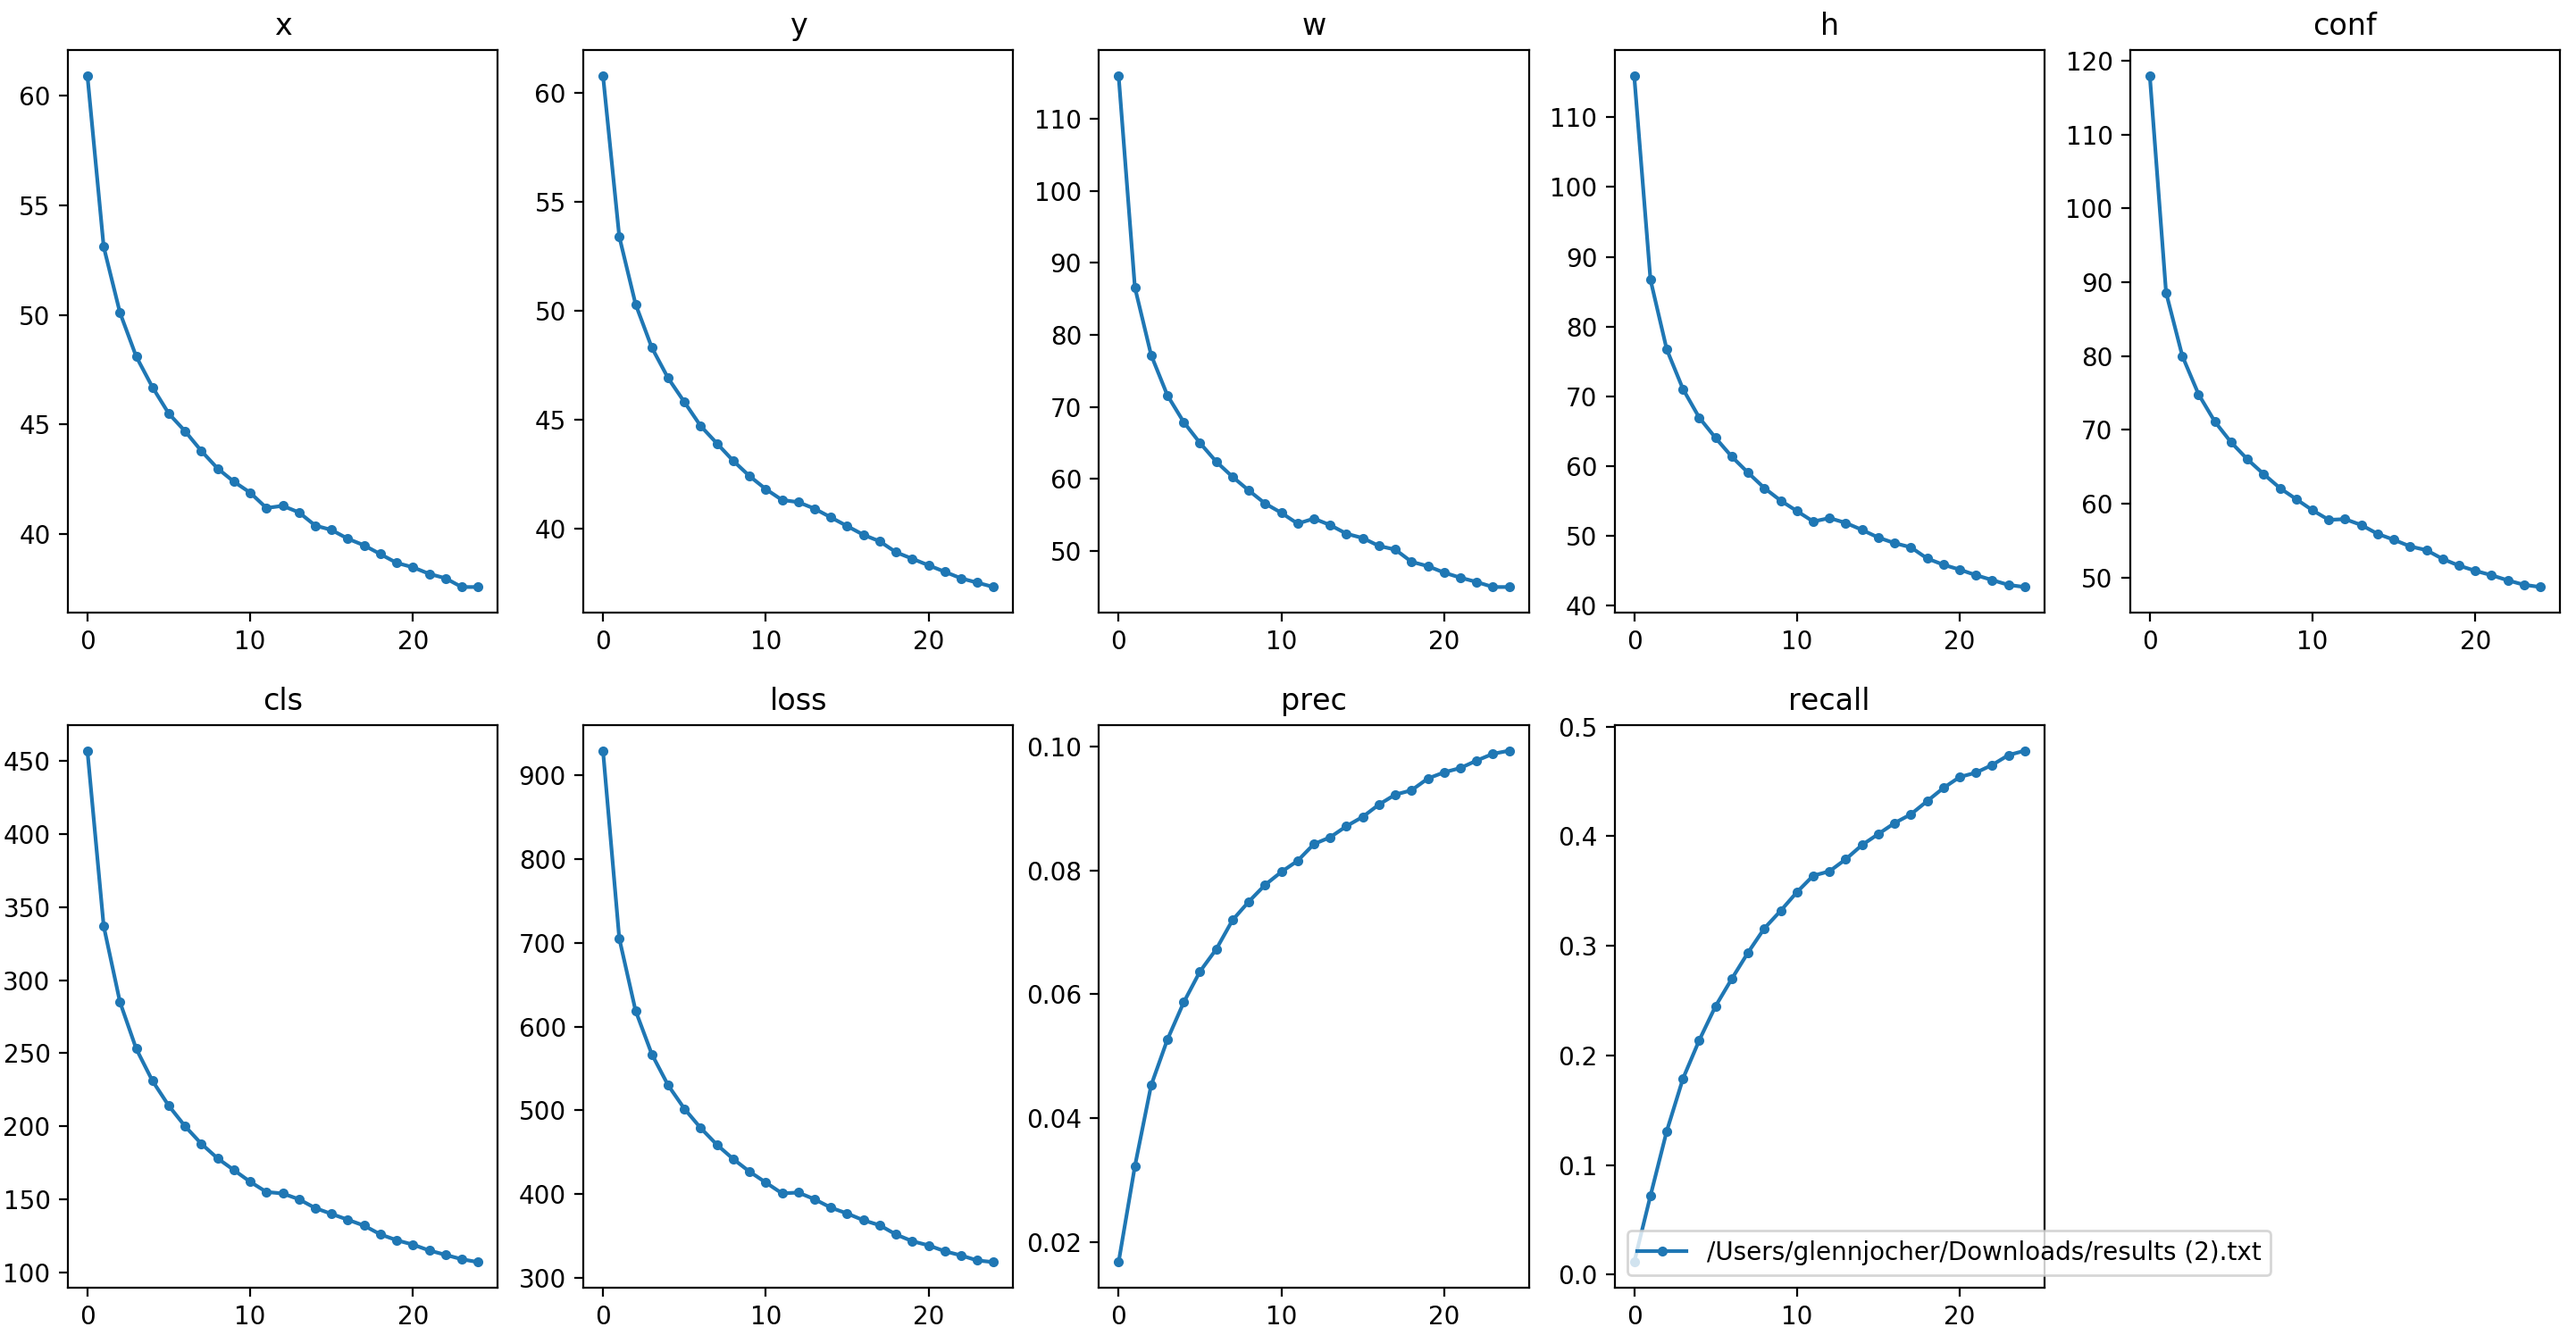
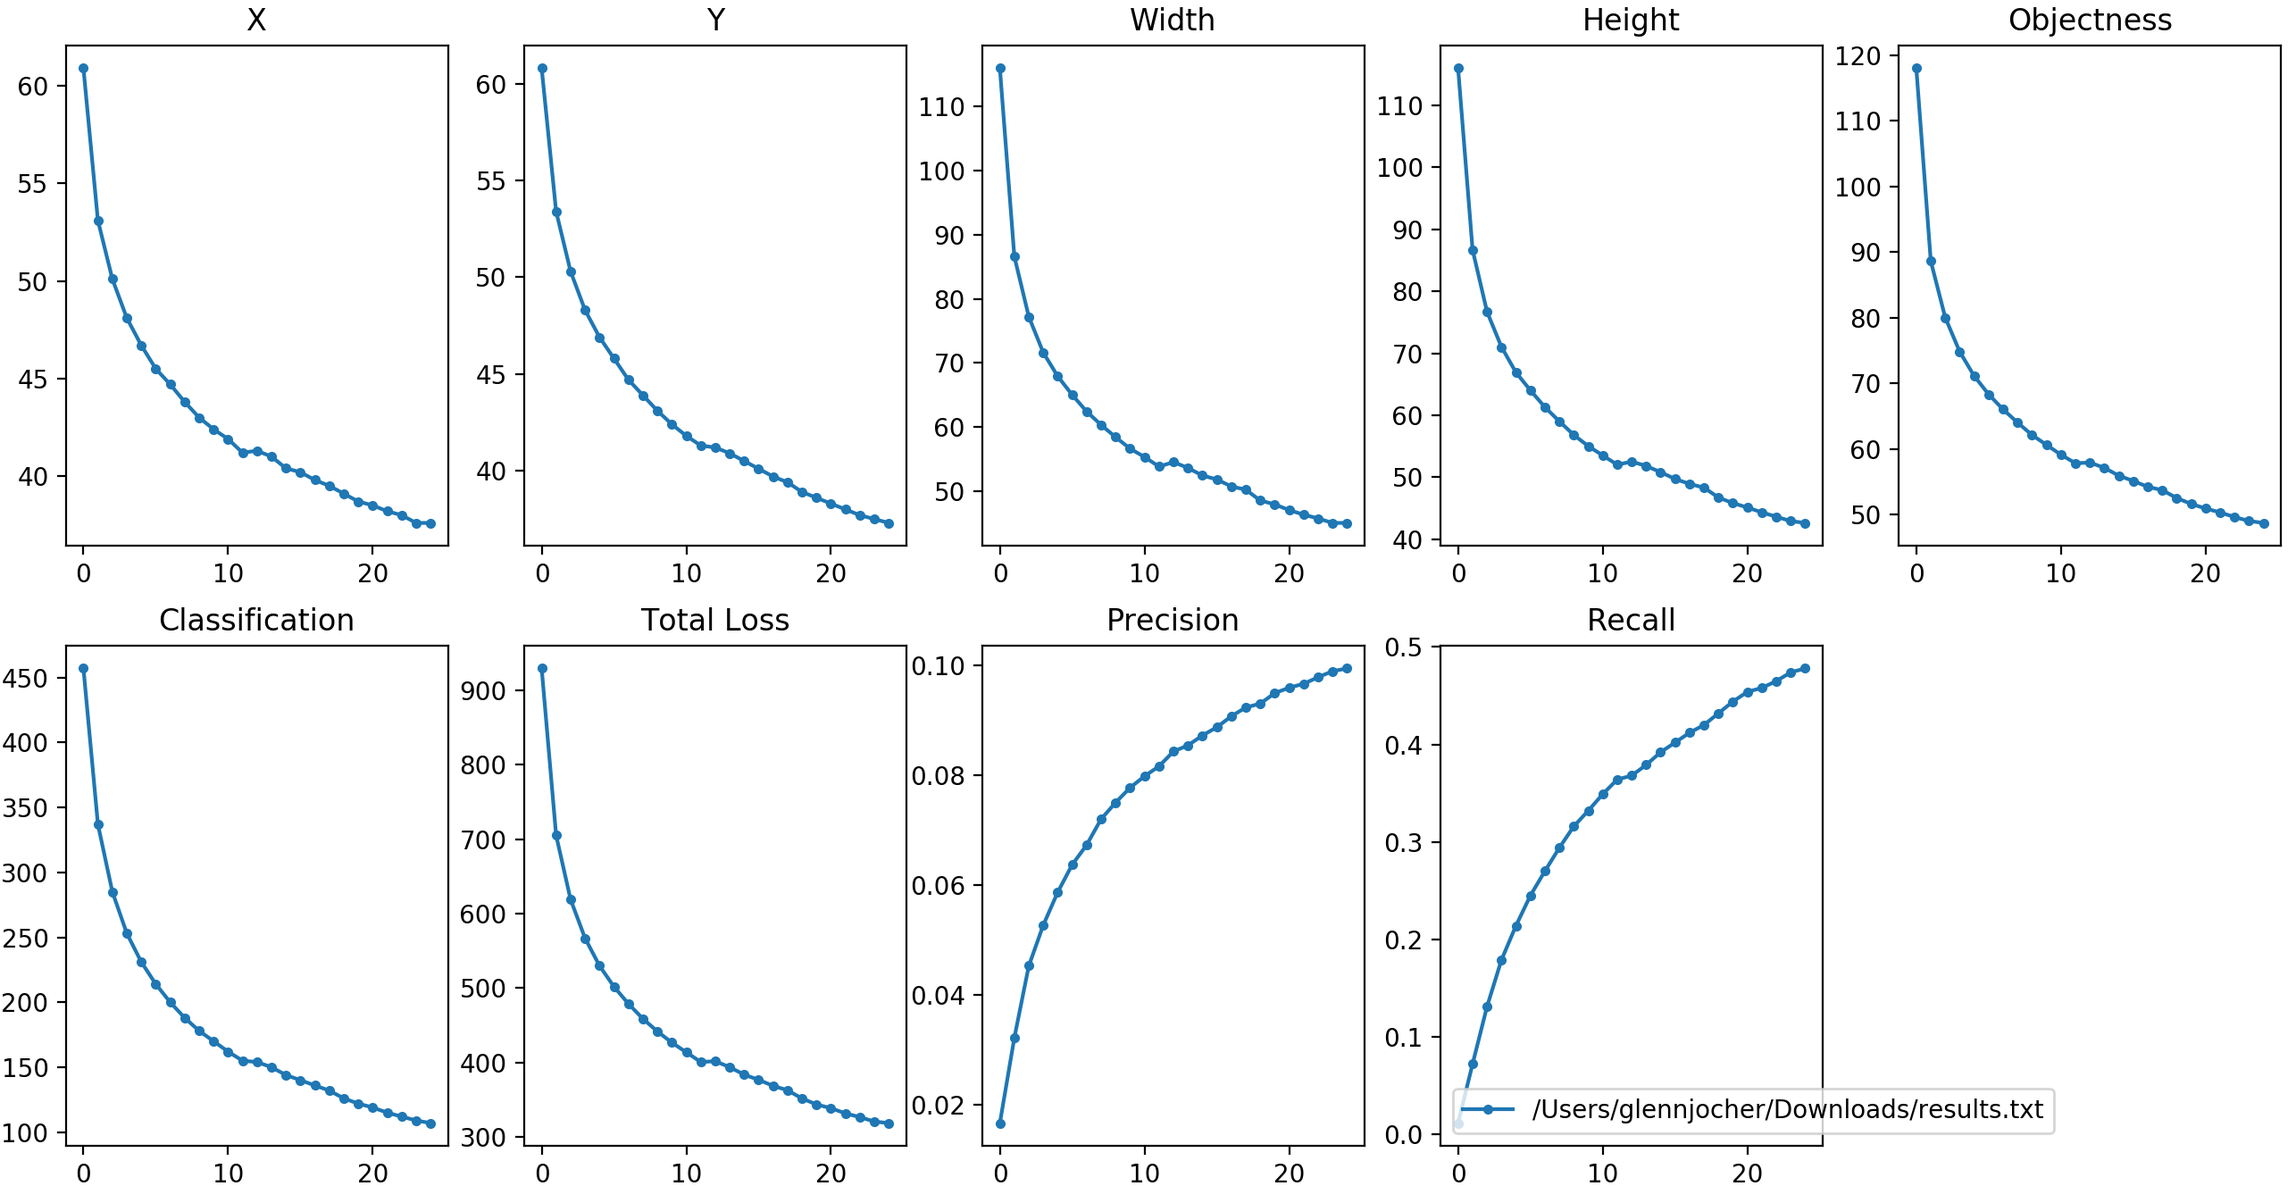
updates

diff --git a/utils/utils.py b/utils/utils.py
@@ -359,10 +359,10 @@ def plotResults():
     # Plot YOLO training results file "results.txt"
     import numpy as np
     import matplotlib.pyplot as plt
-    plt.figure(figsize=(18, 9))
-    s = ['x', 'y', 'w', 'h', 'conf', 'cls', 'loss', 'prec', 'recall']
-    for f in ('/Users/glennjocher/Downloads/results (2).txt',
-              'results22.txt'):
+    plt.figure(figsize=(16, 8))
+    s = ['X', 'Y', 'Width', 'Height', 'Objectness', 'Classification', 'Total Loss', 'Precision', 'Recall']
+    for f in ('/Users/glennjocher/Downloads/results.txt',
+              ''):
         results = np.loadtxt(f, usecols=[2, 3, 4, 5, 6, 7, 8, 9, 10]).T
         for i in range(9):
             plt.subplot(2, 5, i + 1)
